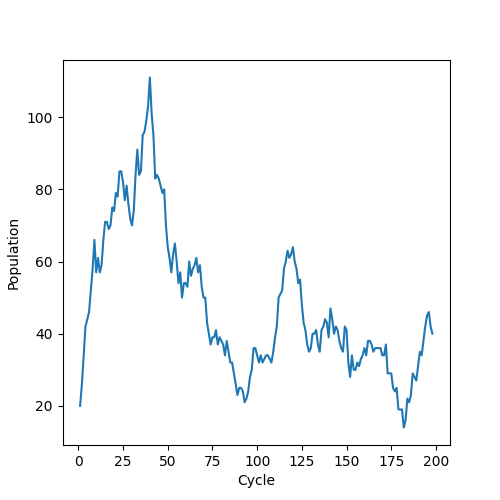
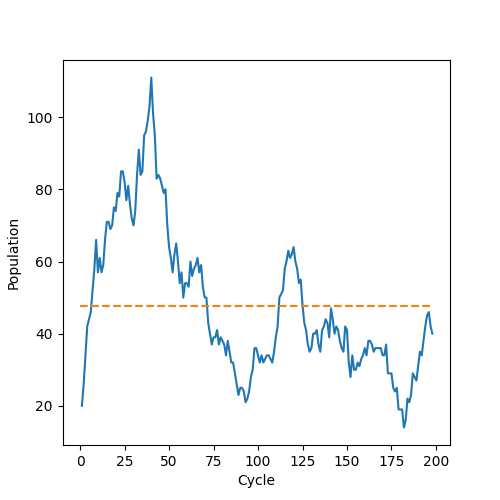
Added average line for population graph

diff --git a/Graphs.py b/Graphs.py
@@ -101,6 +101,17 @@ class graphs:
 
         self.pop_ax.plot(cycles, populations)
 
+
+        #Create the average line
+        y_average = 0
+        for i in populations:
+            y_average += i
+        y_average = y_average / len(populations)
+        y_average = [y_average] * len(populations)
+
+        x_values = np.arange(0, len(populations), 1)
+        self.pop_ax.plot(x_values, y_average, label='Mean', linestyle='--')
+
         self.pop_fig.savefig("population.png")
         plt.close(self.pop_fig)
 
